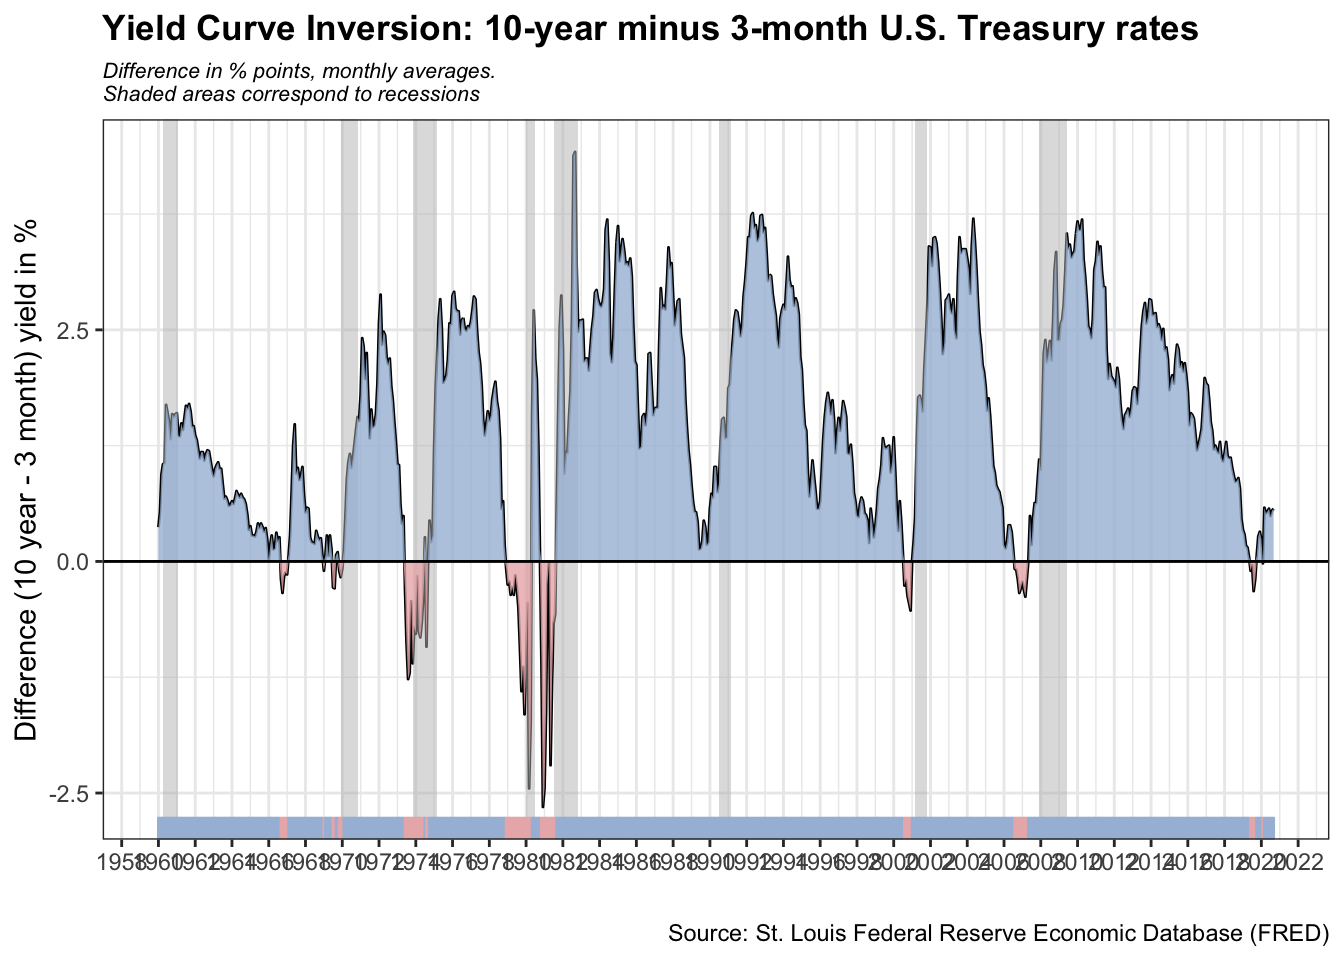
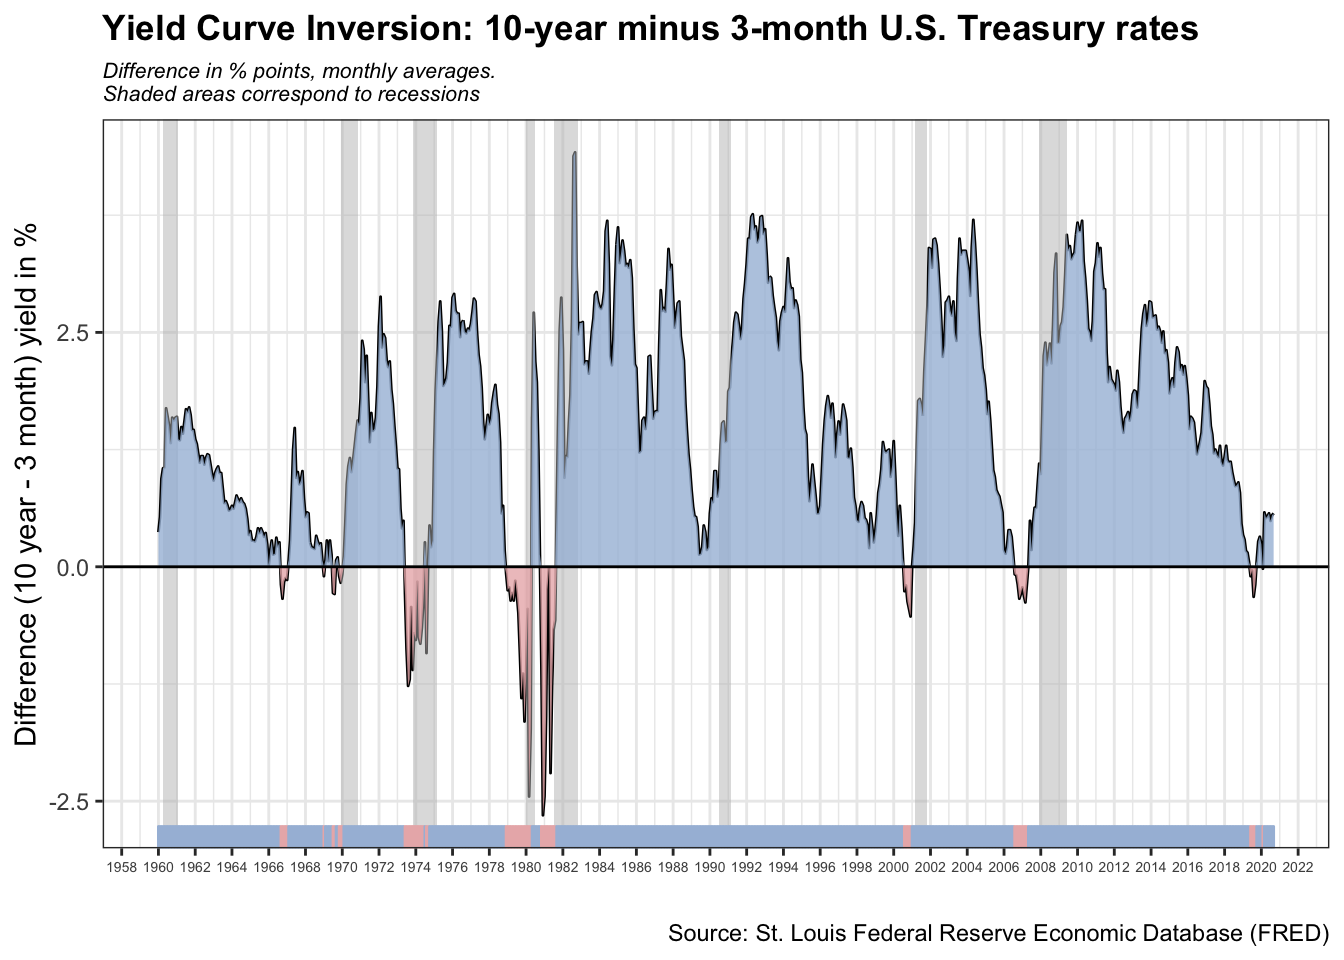
yield curve graph size x axis

diff --git a/content/blogs/blog9.html b/content/blogs/blog9.html
@@ -369,9 +369,10 @@ yield_curve_inversion &lt;-  ggplot(yield_curve_spread) +
 
 #And change the breaks and labels of the x axis
                           scale_x_date(date_breaks = &quot;2 years&quot;, date_labels = &quot;%Y&quot;) +
+                          theme(axis.text.x = element_text(size=rel(0.6))) +
 
 #At last, I draw a black line through the yintercept = 0
-                          geom_hline(yintercept=0, color = &quot;black&quot;)
+                          geom_hline(yintercept=0, color = &quot;black&quot;) 
 
 yield_curve_inversion</code></pre>
 <p><img src="/blogs/blog9_files/figure-html/unnamed-chunk-1-1.png" width="100%" /></p>

diff --git a/public/blogs/usyield/index.html b/public/blogs/usyield/index.html
@@ -433,9 +433,10 @@ yield_curve_inversion &lt;-  ggplot(yield_curve_spread) +
 
 #And change the breaks and labels of the x axis
                           scale_x_date(date_breaks = &quot;2 years&quot;, date_labels = &quot;%Y&quot;) +
+                          theme(axis.text.x = element_text(size=rel(0.6))) +
 
 #At last, I draw a black line through the yintercept = 0
-                          geom_hline(yintercept=0, color = &quot;black&quot;)
+                          geom_hline(yintercept=0, color = &quot;black&quot;) 
 
 yield_curve_inversion</code></pre>
 <p><img src="/blogs/blog9_files/figure-html/unnamed-chunk-1-1.png" width="100%" /></p>
